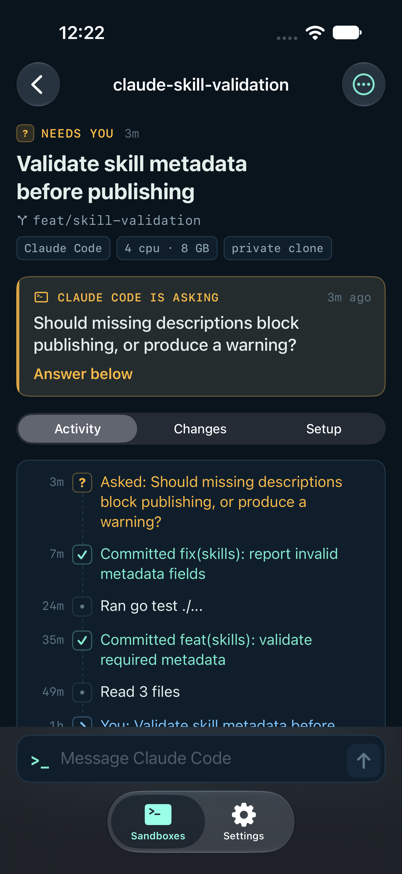
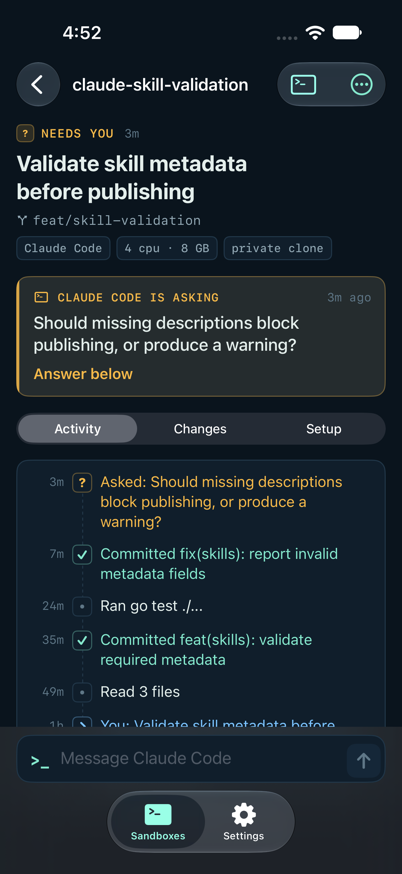
Show the iPhone app's terminal in the README
Adds a screenshot of an agent's terminal attached on the iPhone, and
retakes the sandbox screen to show the Attach button. The iOS README
notes that SwiftTerm's Metal shaders need Xcode's Metal Toolchain.
Package.resolved pins SwiftTerm and its dependency.

Changed region(s): [[0.1791, 0.0618, 0.9254, 0.1236], [0.1493, 0.0309, 0.2687, 0.0618]]

diff --git a/README.md b/README.md
@@ -153,13 +153,14 @@ It looks like the [web app](#in-a-browser): the app icon's navy and mint, with a
 
 <p align="center">
   <img src="docs/images/ios-sandboxes.png" width="200" alt="The sandbox list, grouped by project, with filters for Needs you, Working and Ready">
-  <img src="docs/images/ios-sandbox-detail.png" width="200" alt="A sandbox whose agent is asking a question, with its activity as a log and a message box">
+  <img src="docs/images/ios-sandbox-detail.png" width="200" alt="A sandbox whose agent is asking a question, with its activity as a log, a message box, and Attach in the toolbar">
+  <img src="docs/images/ios-terminal.png" width="200" alt="The agent's terminal attached full screen, with Detach at the top and a key bar for Esc, Ctrl, Tab and the arrows">
   <img src="docs/images/ios-changes.png" width="200" alt="The Changes tab, listing each changed file with its added and removed lines">
   <img src="docs/images/ios-reply.png" width="200" alt="An agent's last reply rendered as markdown, with a box to reply">
   <img src="docs/images/ios-new-sandbox.png" width="200" alt="The New sandbox form, with the task, branch, private clone, agent, model and kits">
 </p>
 
-*The demo data on an iPhone in dark mode: every sandbox and its status, an agent waiting on a question, its changed files, another agent's last reply, and the New sandbox form.*
+*The demo data on an iPhone in dark mode: every sandbox and its status, an agent waiting on a question, its terminal attached, its changed files, another agent's last reply, and the New sandbox form.*
 
 From the app you can:
 

diff --git a/ios/README.md b/ios/README.md
@@ -4,7 +4,7 @@ A SwiftUI app for checking on and messaging the agents that `sbx-projects api` s
 
 ## Building
 
-Open `SbxProjects/SbxProjects.xcodeproj` in Xcode 26 or later. The app folder is synchronized with the project, so new files in `SbxProjects/SbxProjects/` are built without adding them by hand. `SbxProjects/Info.plist` is merged with the keys Xcode generates; it adds Local Network and camera access, Bonjour browsing for `_sbxp._tcp`, local TLS, and the `sbxp://` URL scheme.
+Open `SbxProjects/SbxProjects.xcodeproj` in Xcode 26 or later. SwiftTerm has Metal shaders, so Xcode needs its Metal Toolchain; install it from Xcode > Settings > Components, or with `xcodebuild -downloadComponent MetalToolchain`. The app folder is synchronized with the project, so new files in `SbxProjects/SbxProjects/` are built without adding them by hand. `SbxProjects/Info.plist` is merged with the keys Xcode generates; it adds Local Network and camera access, Bonjour browsing for `_sbxp._tcp`, local TLS, and the `sbxp://` URL scheme.
 
 ## Trying it
 
